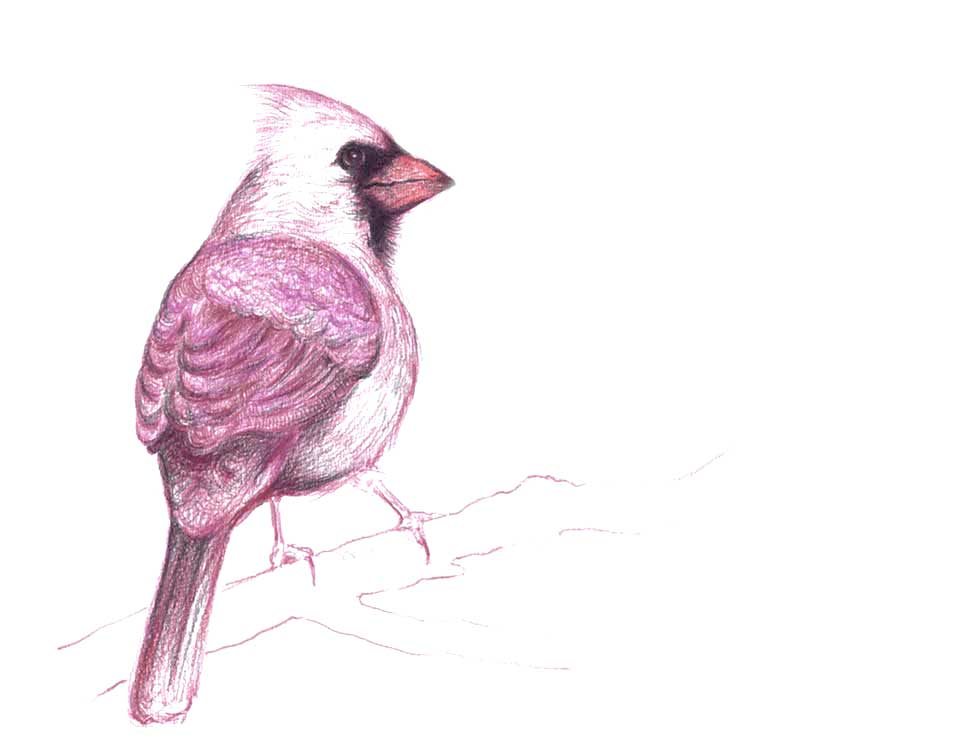
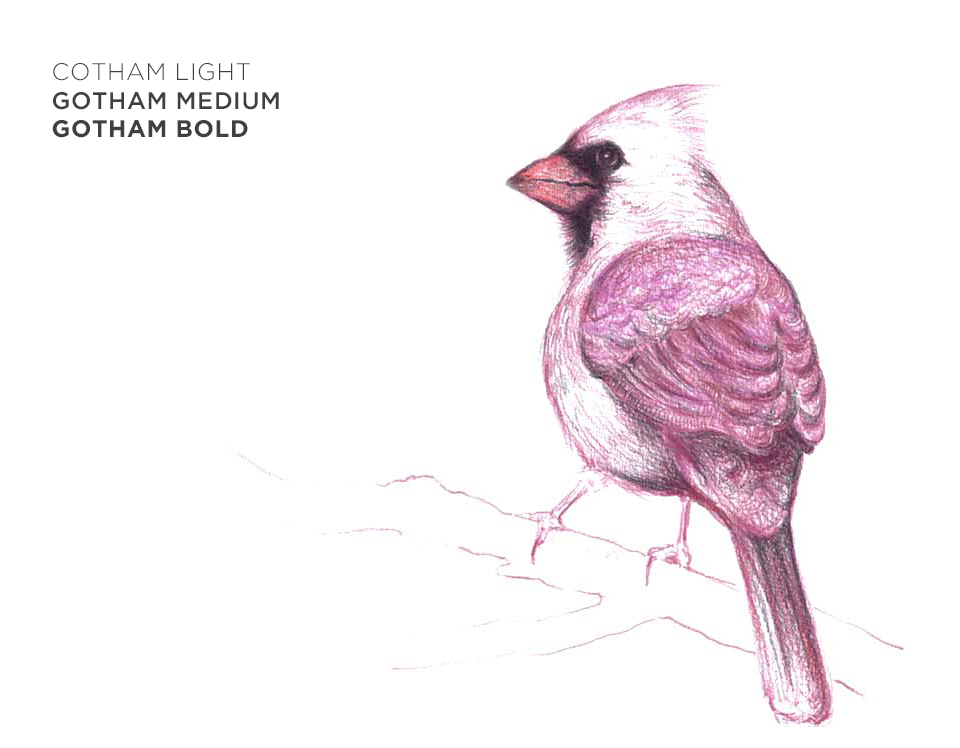
100_birds_page

diff --git a/partials/partial11.html b/partials/partial11.html
@@ -1,20 +1,31 @@
 
+<style>
+	div.birdbook > div.col-md-8 {
+		margin-left: 0px;
+	}
+</style>
 <br/><br/><br/>
-<div class="columnsContainer">
+<div class="columnsContainer birdbook">
 
-	<div class="leftColumn">
-		<img src='img/hand_drawings/bird_drawing_2.jpg' ng-class='projectImage' width='90%' style='min-width: 200px; margin-left: 10%'/><br><br><br>
-		<img src='img/hand_drawings/bird_drawing_1.jpg' ng-class='projectImage' width='90%' style='min-width: 200px; margin-left: 10%'/>
-		<img src='img/hand_drawings/bird_drawing_3.jpg' ng-class='projectImage' width='80%' style='min-width: 200px; margin-left: 20%'/>
-		<img src='img/hand_drawings/pangolin_1.jpg' ng-class='projectImage' width='80%' style='min-width: 200px; margin-left: 20%'/>
-		<img src='img/hand_drawings/axolotl_1.jpg' ng-class='projectImage' width='80%' style='min-width: 200px; margin-left: 20%'/>
+	<div class="info">
+		<div>&larr; <a href="#/view14">Previous</a> | <a href="#/view9">Next</a> &rarr;</div>
+		<h1>100 BIRDS</h1>
+		<strong>Drawing</strong>
+
+		<p>100 Birds is a self-promotional illustration and book cover project. I hand draw collected bird pictures using color pencil and then make them into typographic layouts of book covers. All bookcovers will always use only one font family.</p>
+	</div>
+
+	<div class="col-md-8">
+		<img src='img/hand_drawings/bird_drawing_2.jpg' width='90%'/><br><br><br>
+		<img src='img/hand_drawings/bird_drawing_1.jpg' width='90%'/>
+		<img src='img/hand_drawings/bird_drawing_3.jpg' width='90%'/>
 		
 		<br><br>
 	</div>
 
-	<div class="rightColumn">
-		<img src="img/hand_drawings/bird_cover_1.png" width="90%" style="border: 1pt solid lightgrey"/><br><br>
-		<img src="img/hand_drawings/bird_cover_2.jpg" width="90%" style="border: 1pt solid lightgrey"/><br><br>
+	<div class="col-md-4">
+		<img src="img/hand_drawings/bird_cover_1.png" width="90%" style="border: 1pt solid lightgrey"/><br><br><br><br><br>
+		<img src="img/hand_drawings/bird_cover_2.jpg" width="90%" style="border: 1pt solid lightgrey"/><br><br><br><br><br>
 		<img src="img/hand_drawings/bird_cover_3.jpg" width="90%" style="border: 1pt solid lightgrey"/><br><br>
 
 		<p> {{project11.projectDescription[1]}}</p>

diff --git a/partials/partial1.html b/partials/partial1.html
@@ -164,6 +164,13 @@
 					<p>/ information design</p>
 				</div>
 			</div>
+			<div>
+				<a href="#/view11"><img id="100_birds_thumb" ng-src='img/square_photos/100_birds_thumb.jpg' width='200px' alt="100 birds"/></a>
+				<div class="thumb_info">
+					<h4>100 Birds</h4>
+					<p>/ drawing</p>
+				</div>
+			</div>
 			<!-- Sample Hover Effect -->
 			<!-- <a href="#/view9"><img style="margin-right: .5em; margin-bottom: 1em; float: left; position: relative" ng-src='img/markers-nav.png' width='32%' onmouseout="this.src='img/markers-nav.png'" onmouseover="this.src='img/markers-nav-h.png'" alt="markers ui"/></a> -->
 			<br><br><br>
